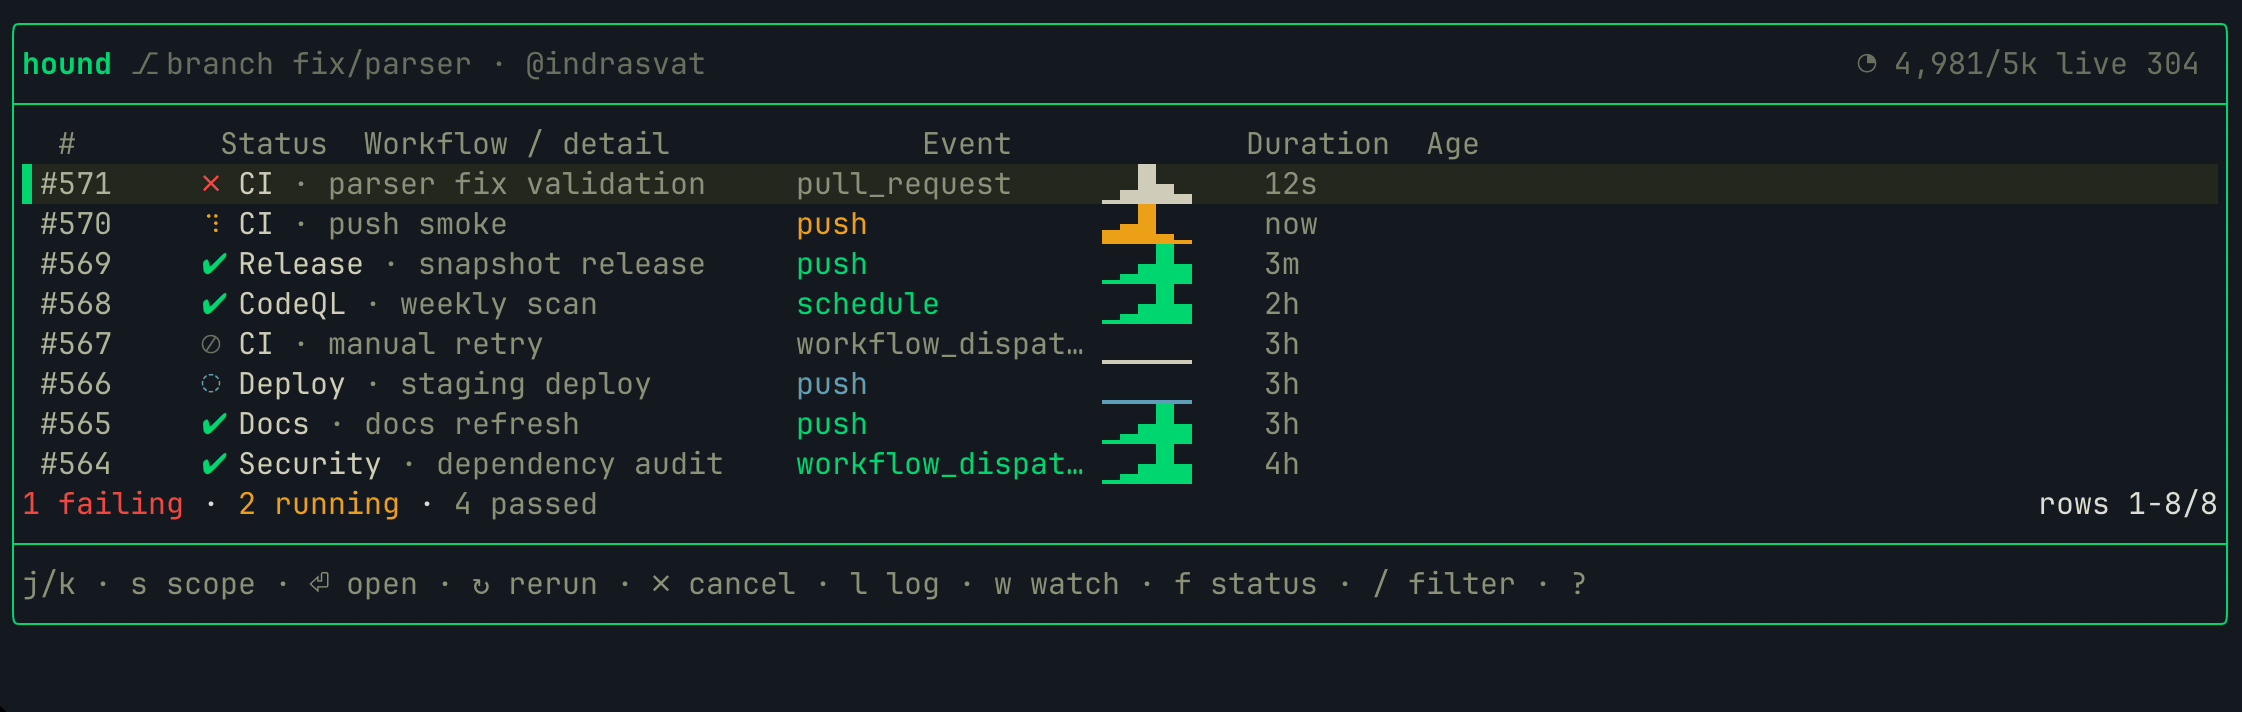
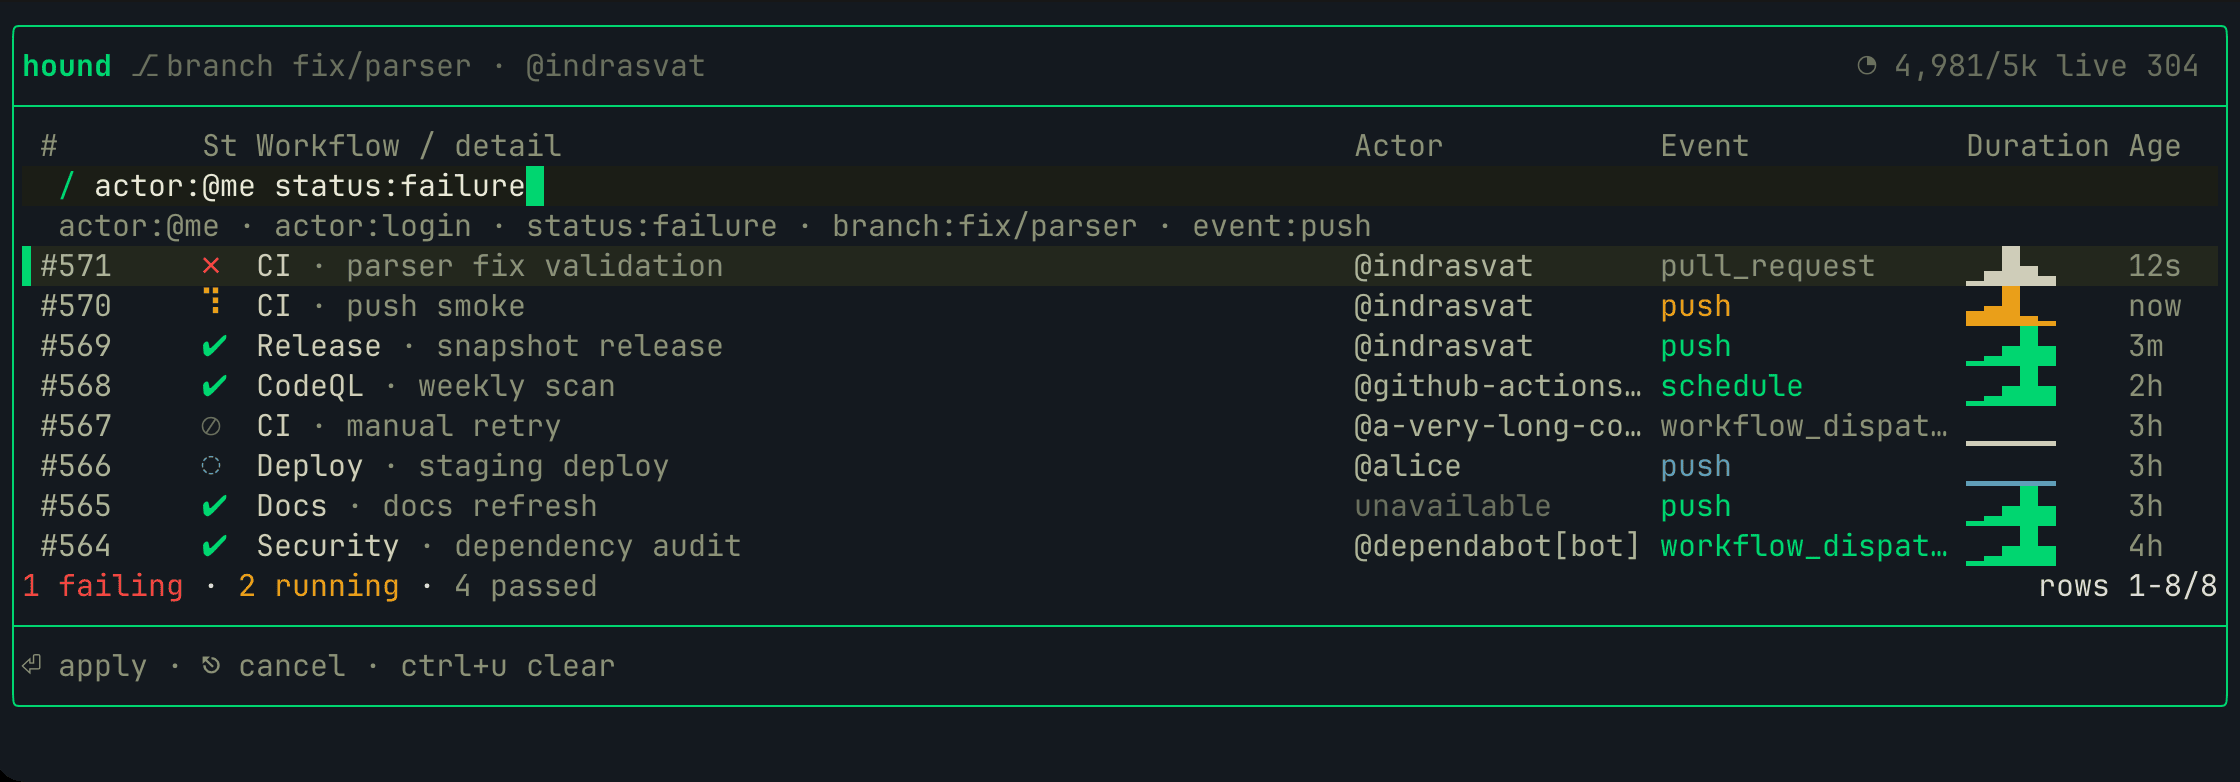
docs(site): show the actor column and / filter in the hero shot
Recaptured runs.png from the runs-filter-input fixture via the iTerm2
pipeline and mention actor filtering in the page copy. The capture tool
now re-reads the grid size each resize step; the session's cached value
never updated, so the grid never converged.

diff --git a/pages/index.html b/pages/index.html
@@ -68,9 +68,9 @@
     </div>
     <figure class="hero-term rise d4">
       <div class="term">
-        <img src="/assets/shots/runs.png" alt="gh-hound runs screen: a branch-scoped list of workflow runs with status glyphs, events, duration sparklines and rate budget" width="2242" height="712" fetchpriority="high">
+        <img src="/assets/shots/runs.png" alt="gh-hound runs screen: a branch-scoped list of workflow runs with status glyphs, actors, events, duration sparklines and rate budget, with the / filter open on actor:@me status:failure" width="2240" height="782" fetchpriority="high">
       </div>
-      <figcaption>the runs home: status, event, duration sparkline, age, rate budget · f cycles the status filter</figcaption>
+      <figcaption>the runs home: status, actor, event, duration sparkline, age, rate budget · / filters by actor:@me, status, branch</figcaption>
     </figure>
   </header>
 
@@ -222,7 +222,7 @@
     <div class="eng-grid">
       <div class="eng reveal">
         <h3>server-side filtering</h3>
-        <p>Branch, status, event and repo-wide scope are filtered by the API, not in your terminal.</p>
+        <p>Branch, status, event, actor and repo-wide scope are filtered by the API, not in your terminal.</p>
       </div>
       <div class="eng reveal">
         <h3>etag polling</h3>

diff --git a/.claude/automations/capture_fixture.py b/.claude/automations/capture_fixture.py
@@ -94,7 +94,9 @@ async def converge_grid(window, session, cols, rows):
             iterm2.Frame(iterm2.Point(RETINA_X, frame.origin.y), iterm2.Size(width, height))
         )
         await asyncio.sleep(0.35)
-        grid = session.grid_size
+        # The session object's grid_size is a stale snapshot; re-read it.
+        app = await iterm2.async_get_app(session.connection)
+        grid = app.get_session_by_id(session.session_id).grid_size
         if grid.width == cols and grid.height == rows:
             return True
         cell_w = width / max(grid.width, 1)
